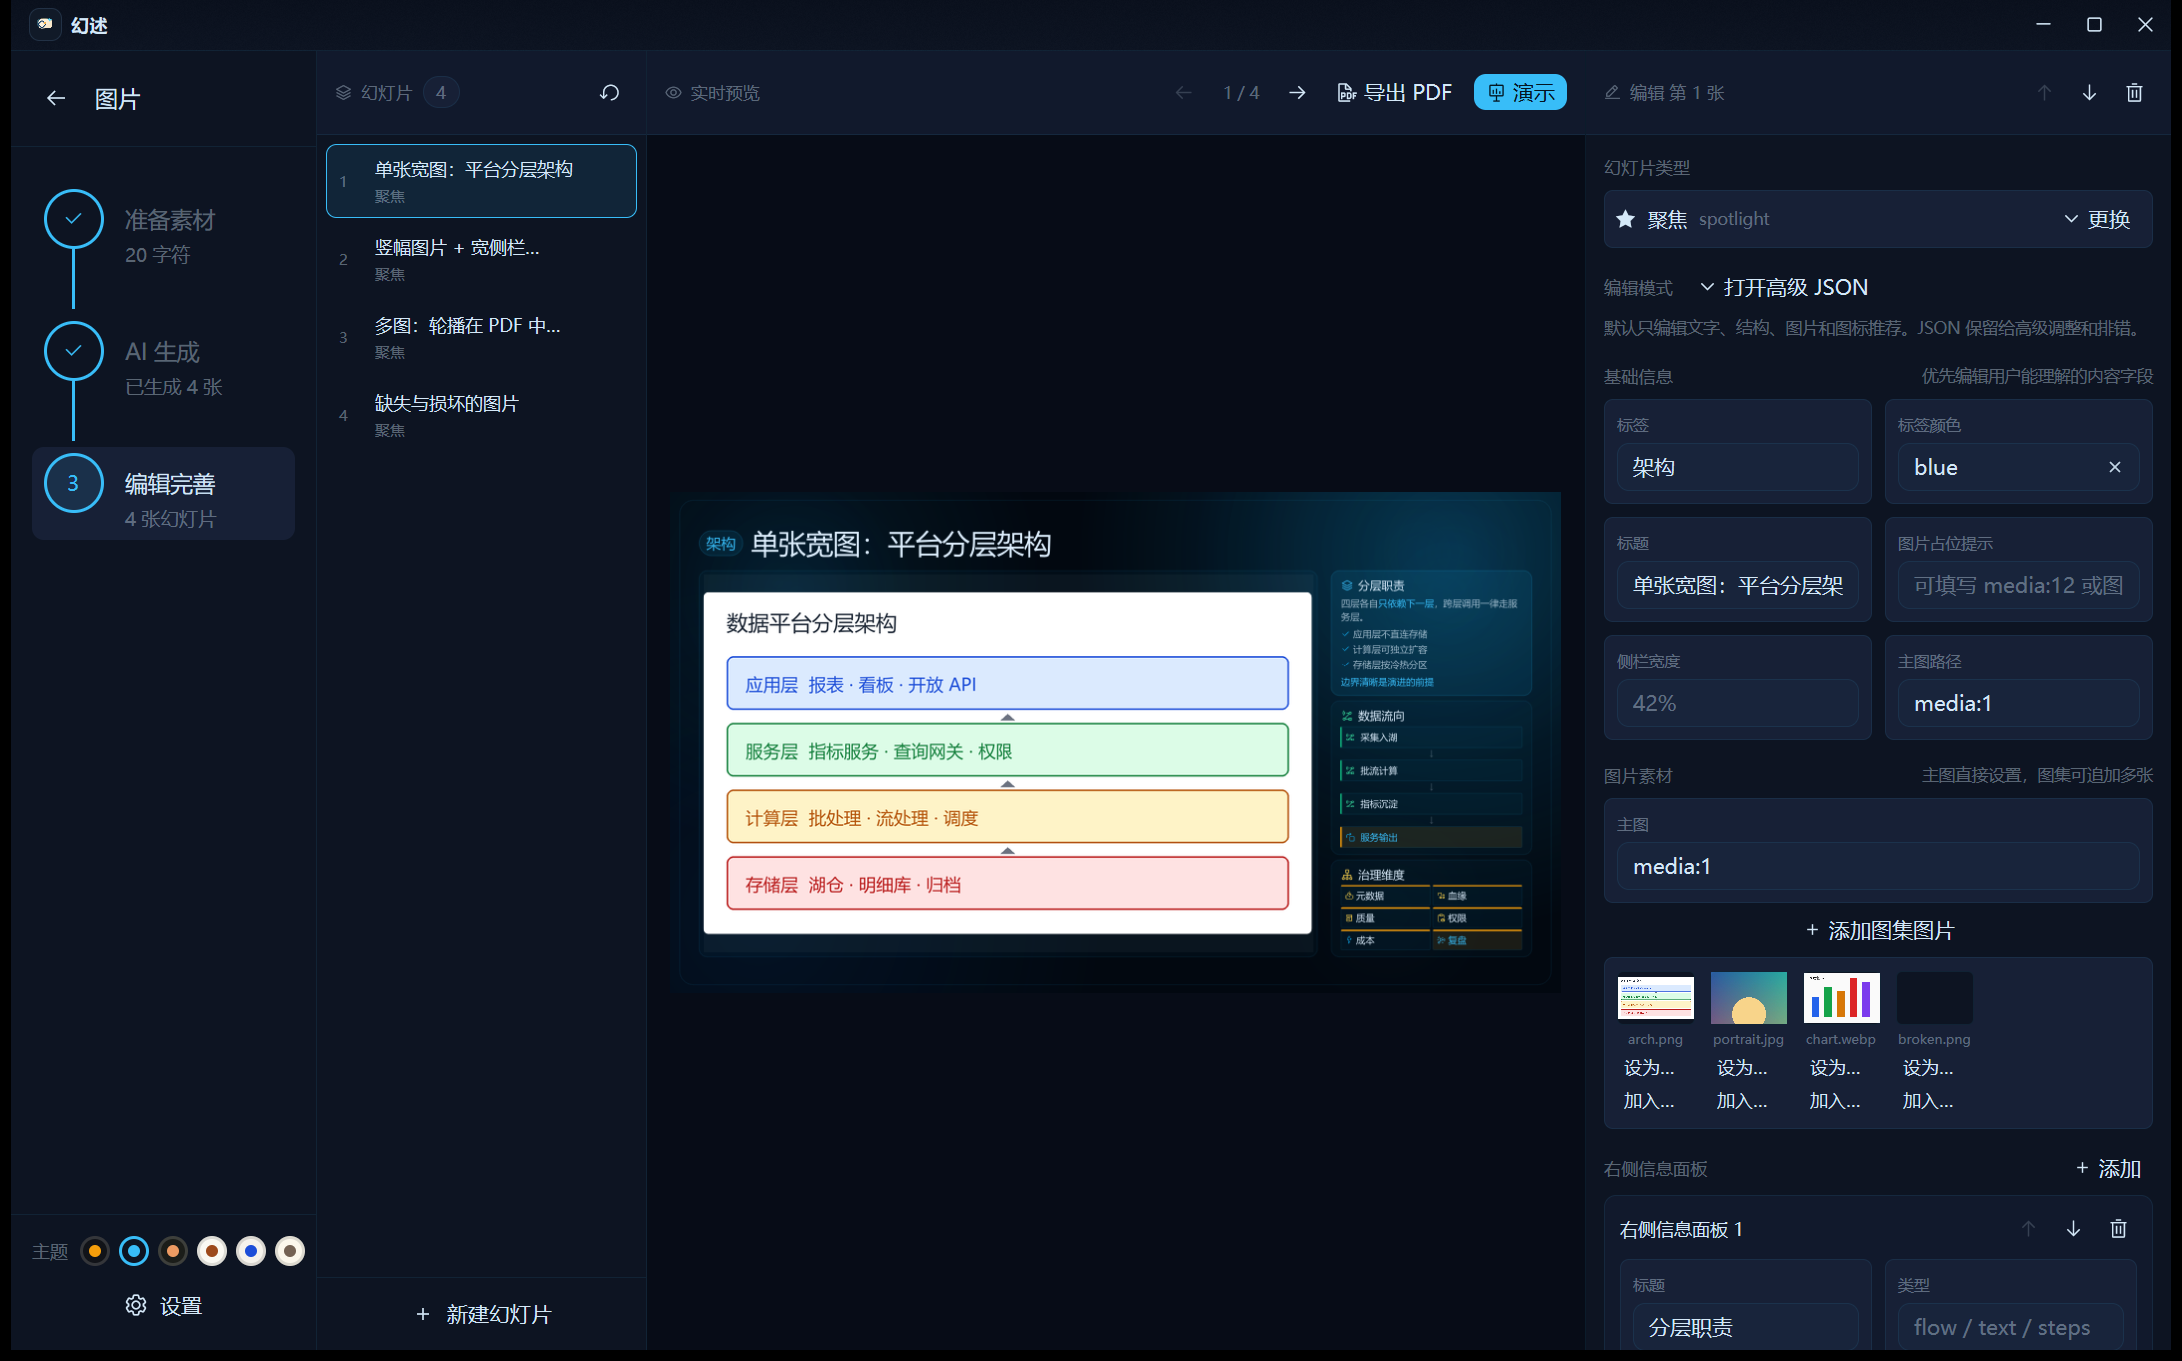
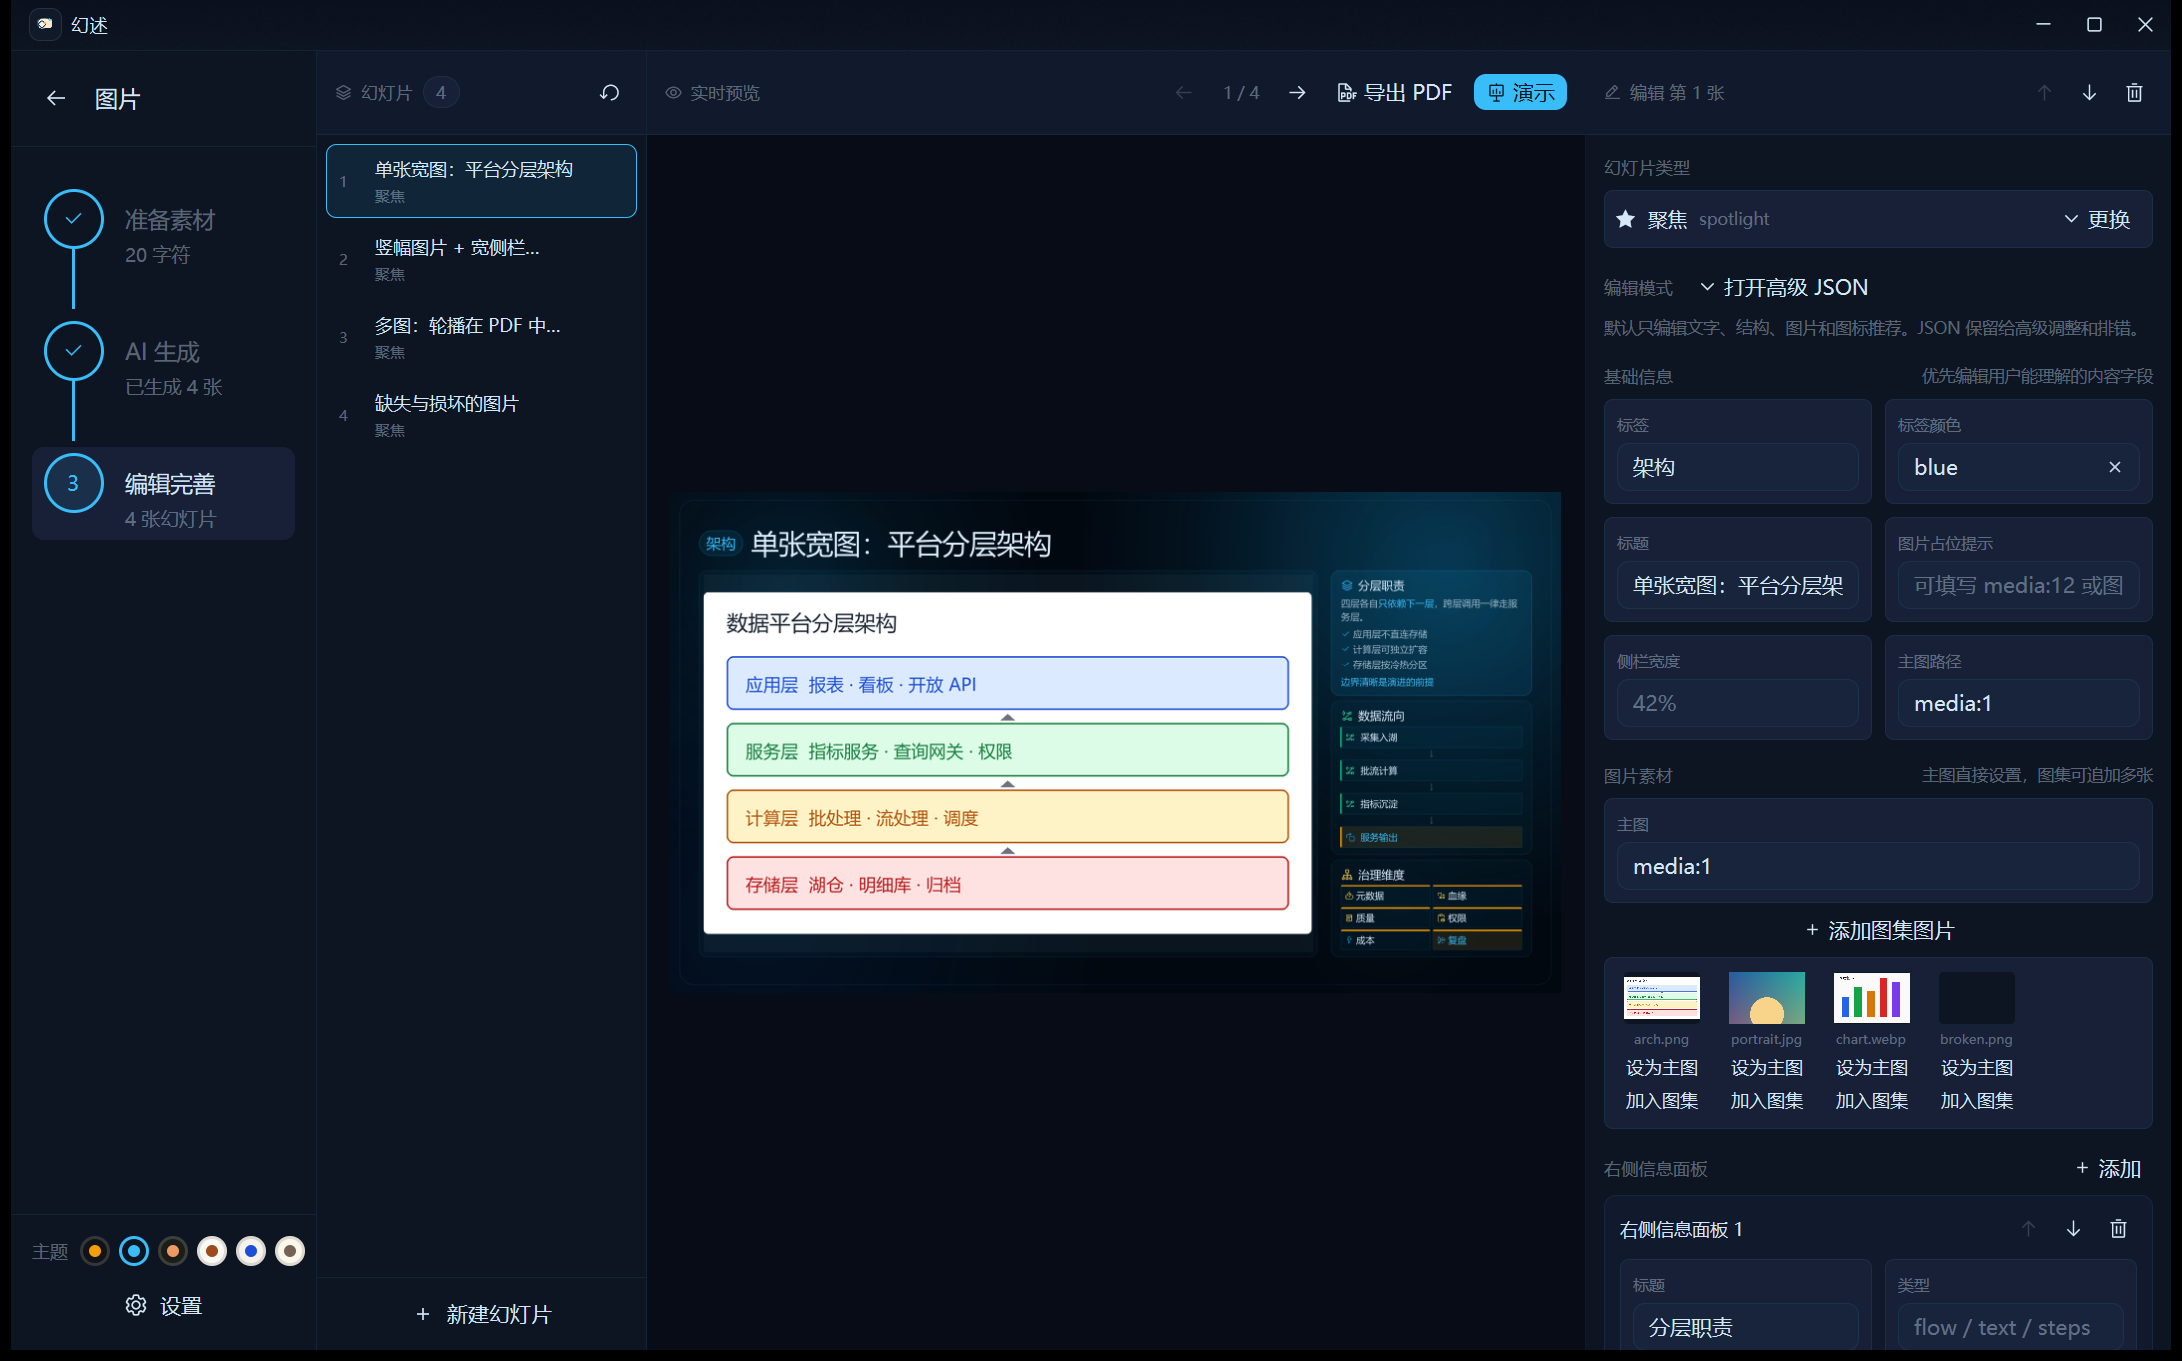
fix(native): title bar brand weight; full media strip button labels
Verification found the title bar brand still BOLD (the one FontWeight
left) and the 56px media tiles truncating 设为主图/加入图集. Tiles are
now 64px with 9px labels so the full text shows, as in the original.
Shell screenshots re-taken.

Changed region(s): [[0.7479, 0.7098, 0.9349, 0.8332], [0.0312, 0.0, 0.0623, 0.0309]]

diff --git a/apps/huanshu-native/src/widgets.rs b/apps/huanshu-native/src/widgets.rs
@@ -51,7 +51,6 @@ pub fn title_bar(cx: &App) -> impl IntoElement {
             .child(
                 div()
                     .text_size(px(12.3))
-                    .font_weight(gpui_kit::FontWeight::BOLD)
                     .text_color(colors.text)
                     .child("幻述"),
             ),
@@ -162,7 +161,8 @@ pub fn bar_divider(cx: &App) -> Div {
     div().w(px(1.0)).h(px(18.0)).bg(cx.studio().colors.border)
 }
 
-/// 素材小卡（原版 `.ej-media-strip` 里的 `.ej-media-item`：56px 宽、缩略图 + 名字 + 操作按钮）。
+/// 素材小卡（原版 `.ej-media-strip` 里的 `.ej-media-item`：缩略图 + 名字 + 操作按钮，
+/// 卡宽以放下完整的「设为主图」按钮为准）。
 ///
 /// 缩略图画法同第一步 `media_thumb`（`img` 铺满一个 52×36 的圆角框）。操作按钮由调用方给
 /// （第三步是「设为主图」/「加入图集」），所以它们带着自己的点击逻辑一起传进来。
@@ -176,7 +176,7 @@ pub fn media_tile(
     let c = cx.studio().colors;
     div()
         .id(id)
-        .w(px(56.0))
+        .w(px(64.0))
         .flex()
         .flex_col()
         .items_center()
@@ -196,7 +196,7 @@ pub fn media_tile(
         )
         .child(
             div()
-                .max_w(px(52.0))
+                .max_w(px(58.0))
                 .truncate()
                 .text_size(px(8.8))
                 .text_color(c.muted)

diff --git a/apps/huanshu-native/src/pages/workflow/step3.rs b/apps/huanshu-native/src/pages/workflow/step3.rs
@@ -2097,7 +2097,7 @@ impl Step3 {
                     ))
                     .xsmall()
                     .w_full()
-                    .text_size(px(10.0))
+                    .text_size(px(9.0))
                     .disabled(locked)
                     .on_click(cx.listener(move |this, _event, _window, cx| {
                         this.set_path("image", Value::String(primary_ref.clone()), cx)
@@ -2112,7 +2112,7 @@ impl Step3 {
                             ))
                             .xsmall()
                             .w_full()
-                            .text_size(px(10.0))
+                            .text_size(px(9.0))
                             .disabled(locked)
                             .on_click(cx.listener(move |this, _event, _window, cx| {
                                 this.append_gallery_image(&gallery_ref, cx)
